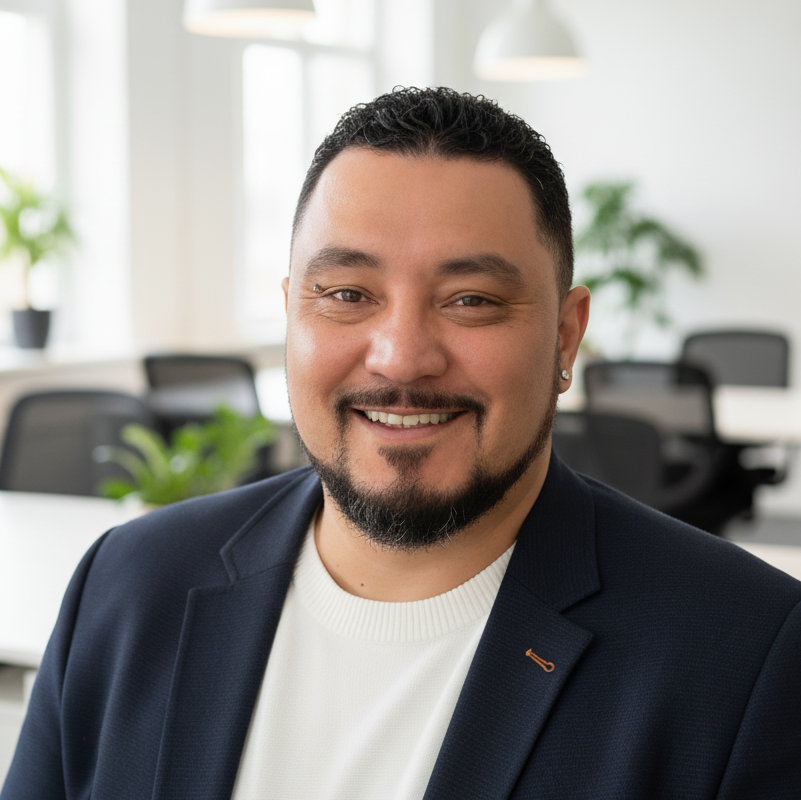
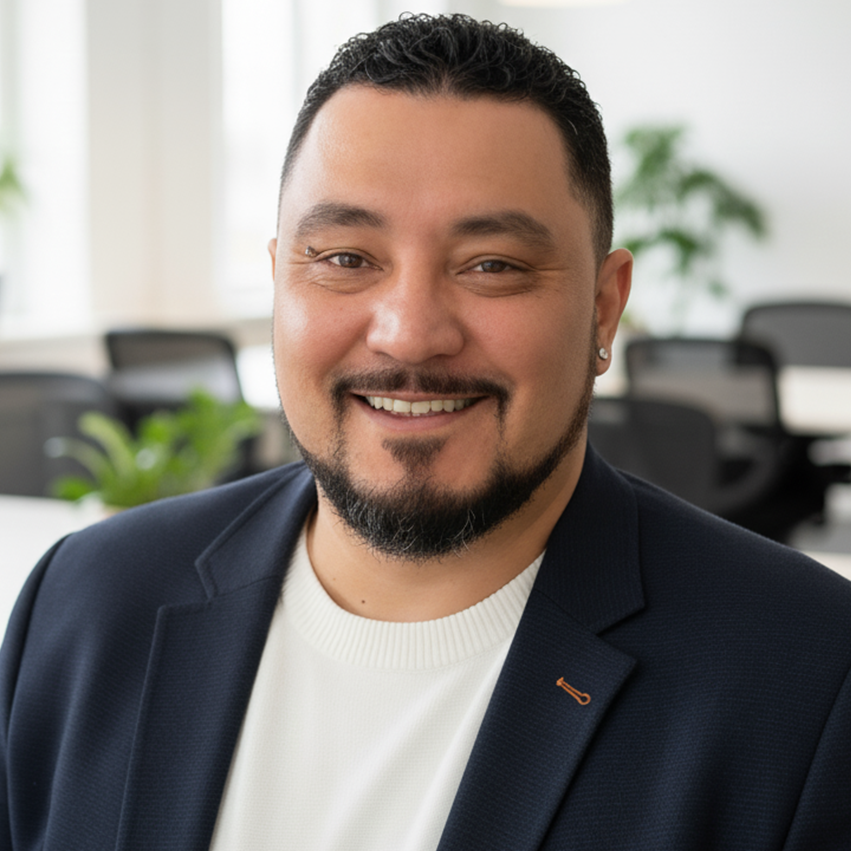
Profile pic updates

diff --git a/index.html b/index.html
@@ -97,8 +97,8 @@
               </header>
               <div class="left">
                 In the business world, time is money, and we're here to save you both! <br /><br />Trust us to efficiently manage your recruitment needs, securing the best talent by prioritizing
-                skill-set, diversity, and cultural fit. This approach ensures your company delivers outstanding products and services because great people lead to great results! 💼✨
-                #EfficientRecruitment #TopTalent #BusinessExcellence <br /><br />
+                skill-set, diversity, and cultural fit. This approach ensures your company delivers outstanding products and services because great people lead to great results! 💼✨ <br />Where great
+                people meet great companies.<br /><br />
                 <ul class="actions special">
                   <li>
                     <a href="https://samford.co.za/recruit/" class="button select-change" data-val="Resource augmentation and recruitment" target="_blank">View our featured jobs</a>
@@ -290,7 +290,7 @@
           <section>
             <div class="content animate-in" data-anim-type="fade-in-right">
               <blockquote>
-                <p>
+                <p style="font-size: 0.9rem">
                   An experienced Software Applications & Development Manager, Senior Web Developer, and E-learning & Edtech Specialist passionate about creating intuitive user experiences and engaging
                   digital solutions. I focus on understanding users and business goals to design exceptional digital experiences that drive results—whether optimizing customer journeys or building
                   effective e-learning platforms.<br />Understanding your audience is key to achieving core business objectives.
@@ -300,49 +300,34 @@
                 <div class="image">
                   <img src="images/Marvin_Poole.png" alt="" />
                 </div>
-                <p class="credit"><br /><strong>Marvin Poole</strong><br /><span>CEO &amp; Executive Director, Software Developer and Edtech Specialist</span></p>
+                <p class="credit"><strong>Marvin Poole</strong></p>
               </div>
+              <p class="credit"><span>CEO &amp; Executive Director, Software Developer and Edtech Specialist</span></p>
             </div>
           </section>
           <section>
             <div class="content animate-in" data-anim-type="fade-in-down">
               <blockquote>
-                <p>
+                <p style="font-size: 0.9rem">
                   An experienced Business Consultant and Delivery Lead passionate about helping clients achieve business value faster.<br />I partner with clients to understand their landscape, then
-                  collaboratively craft tailored solutions across the business and software lifecycle. I also guide organizations in transforming their operations through coaching, mentoring, and
-                  agile practices.<br />
+                  collaboratively craft tailored solutions across the business and software lifecycle. <br />I also guide organizations in transforming their operations through coaching, mentoring,
+                  and agile practices.<br /><br />
                   My focus is delivering measurable results that drive business impact.
                 </p>
               </blockquote>
               <div class="author animate-in" data-anim-type="zoom-in-up-big">
                 <div class="image">
-                  <img src="images/brian_ford.jpg" alt="" />
+                  <img src="images/Brian_Ford.png" alt="" />
                 </div>
-                <p class="credit"><br /><strong>Brian Ford</strong><br /><span>Executive Director, Business Consultant &amp; Delivery Lead Consultant</span></p>
+                <p class="credit"><strong>Brian Ford</strong></p>
               </div>
+              <p class="credit"><span>Executive Director, Business Consultant &amp; Delivery Lead Consultant</span></p>
             </div>
           </section>
           <section>
             <div class="content animate-in" data-anim-type="fade-in-left">
               <blockquote>
-                <p>
-                  I'm a dynamic, motivated Senior Finance Administrator and professional who embraces innovation as a continuous journey of learning and growth. I thrive on organizing and leading
-                  initiatives while making decisive, strategic decisions. Life has taught me that success isn't determined by circumstances—it's about how you respond to them and the value you create.
-                  I bring this mindset to everything I do, turning challenges into opportunities and driving meaningful outcomes.
-                </p>
-              </blockquote>
-              <div class="author animate-in" data-anim-type="zoom-in-right-big">
-                <div class="image">
-                  <img src="images/Nats.png" alt="" />
-                </div>
-                <p class="credit"><br /><strong>Natalie Poole</strong><br /><span>Senior Finance &amp; Generalist Administrator</span></p>
-              </div>
-            </div>
-          </section>
-          <section>
-            <div class="content animate-in" data-anim-type="fade-in-left">
-              <blockquote>
-                <p>Terri-Lee Rose information</p>
+                <p style="font-size: 0.9rem">Terri-Lee Rose information</p>
               </blockquote>
               <div class="author animate-in" data-anim-type="zoom-in-right-big">
                 <div class="image">
@@ -355,7 +340,7 @@
           <section>
             <div class="content animate-in" data-anim-type="fade-in-left">
               <blockquote>
-                <p>John Roberts information</p>
+                <p style="font-size: 0.9rem">John Roberts information</p>
               </blockquote>
               <div class="author animate-in" data-anim-type="zoom-in-right-big">
                 <div class="image">
@@ -368,7 +353,7 @@
           <section>
             <div class="content animate-in" data-anim-type="fade-in-left">
               <blockquote>
-                <p>Jerome Superman information</p>
+                <p style="font-size: 0.9rem">Jerome Superman information</p>
               </blockquote>
               <div class="author animate-in" data-anim-type="zoom-in-right-big">
                 <div class="image">
@@ -376,6 +361,24 @@
                 </div>
                 <p class="credit"><br /><strong>Jerome Superman</strong><br /><span>Operating Partner - IT &amp; Infrastructure Specialist</span></p>
               </div>
+            </div>
+          </section>
+          <section>
+            <div class="content animate-in" data-anim-type="fade-in-left">
+              <blockquote>
+                <p style="font-size: 0.9rem">
+                  I'm a dynamic, motivated Senior Finance Administrator and professional who embraces innovation as a continuous journey of learning and growth. I thrive on organizing and leading
+                  initiatives while making decisive, strategic decisions. Life has taught me that success isn't determined by circumstances—it's about how you respond to them and the value you create.
+                  I bring this mindset to everything I do, turning challenges into opportunities and driving meaningful outcomes.
+                </p>
+              </blockquote>
+              <div class="author animate-in" data-anim-type="zoom-in-right-big">
+                <div class="image">
+                  <img src="images/Nats.png" alt="" />
+                </div>
+                <p class="credit"><strong>Natalie Poole</strong></p>
+              </div>
+              <p class="credit"><span>Senior Finance &amp; Generalist Administrator</span></p>
             </div>
           </section>
         </div>
